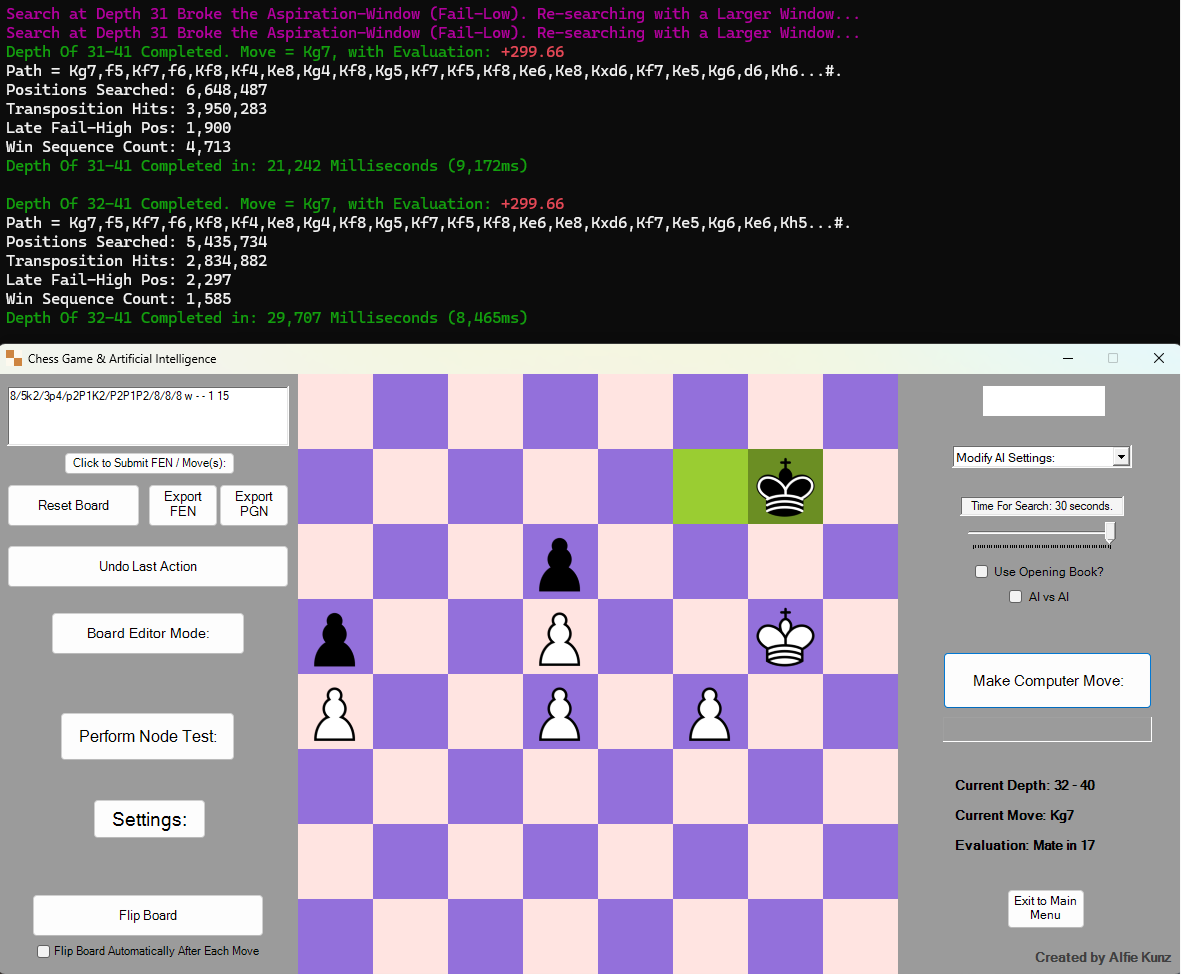
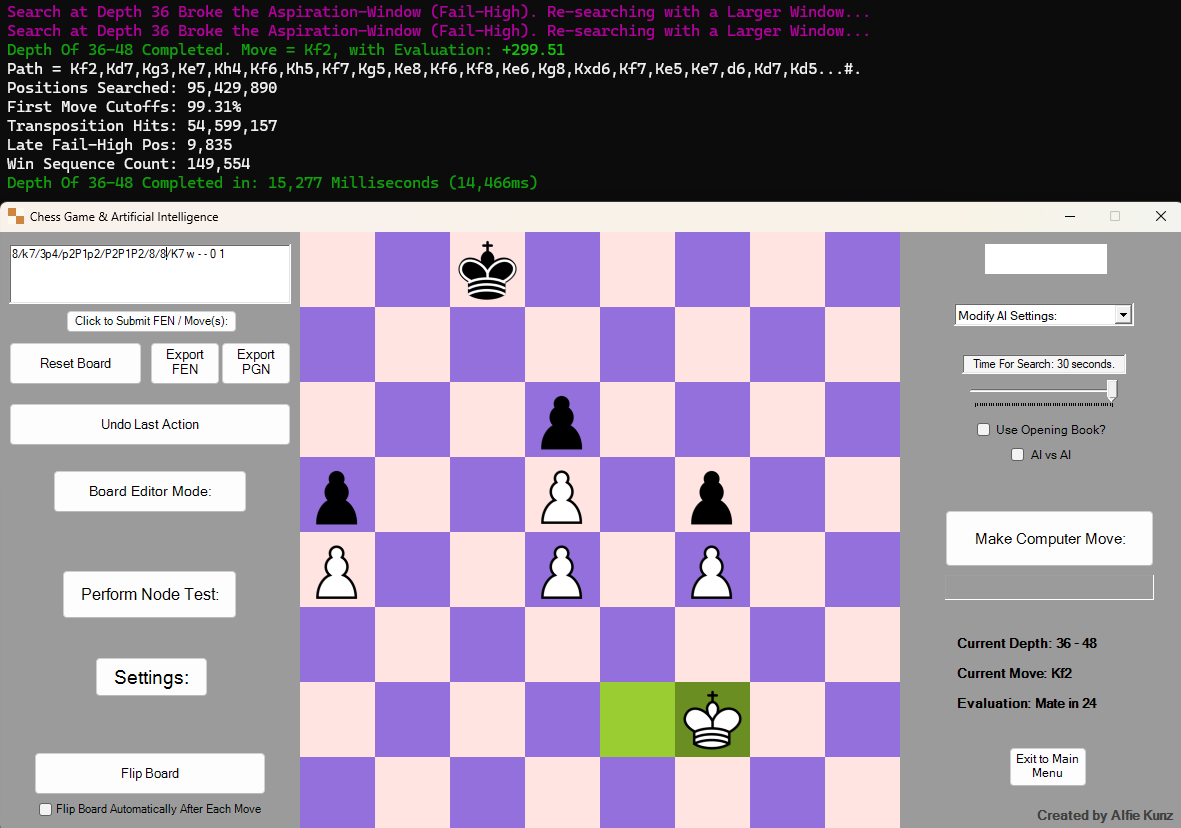
Updated README

diff --git a/README.md b/README.md
@@ -104,7 +104,7 @@ Alternatively, one can download the source code, as instructed below, for full c
 <table align="center" width="100%">
   <tr>
     <td align="center" valign="middle" width="50%">
-        <p align="center"><b>AI Puzzle Showcase</b></p>
+        <p align="center"><b>AI Solving my Database's Hardest Puzzle (0.6s)</b></p>
         <img height="300" alt="ChessPuzzle" src="./readme_img/ChessPuzzle.png" />
     </td>
     <td align="center" valign="middle" width="50%">
@@ -114,7 +114,7 @@ Alternatively, one can download the source code, as instructed below, for full c
   </tr>
   <tr>
     <td align="center" valign="middle">
-      <p align="center"><b>AI Finding Checkmate in 35 Moves</b></p>
+      <p align="center"><b>AI Finding Checkmate in 49 Moves</b></p>
       <img height="350" alt="ChessEndgame" src="./readme_img/ChessEndgame.png" />
     </td>
     <td align="center" valign="middle">
